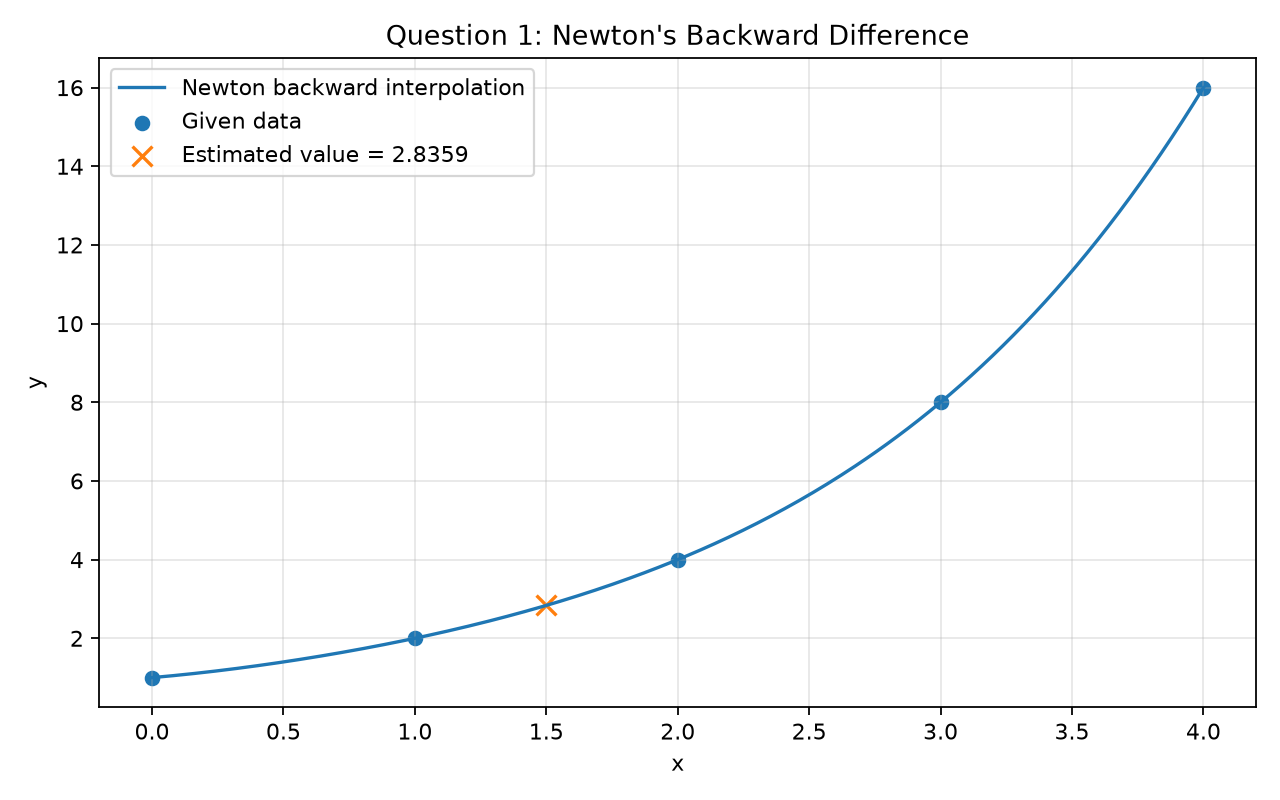
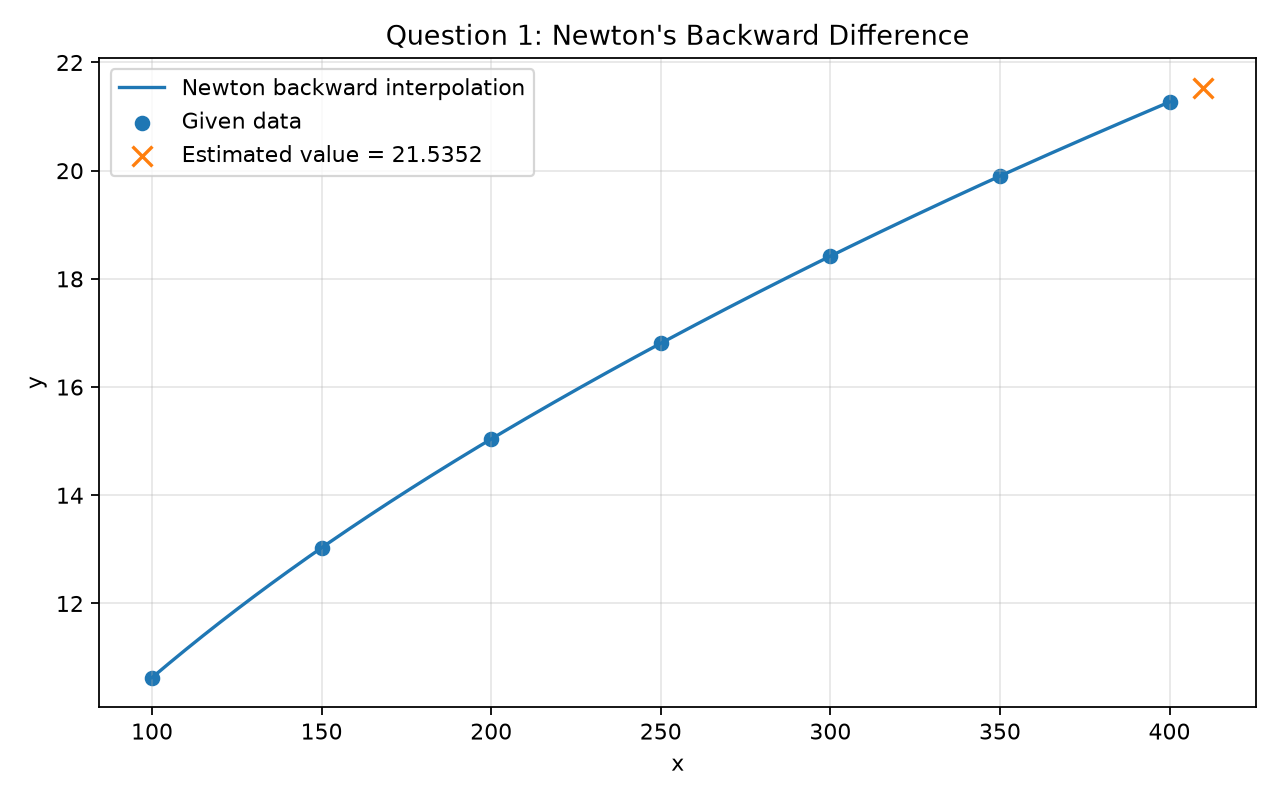
Change Q1
Changed the data of question1 to test the graphs produced in the images folder

diff --git a/question1.py b/question1.py
@@ -2,9 +2,9 @@ import numpy as np
 import matplotlib.pyplot as plt
 from newton_backward import newton_backward, print_difference_table
 
-x = np.array([0, 1, 2, 3, 4], dtype=float)
-y = np.array([1, 2, 4, 8, 16], dtype=float)
-target = 1.5
+x = np.array([100, 150, 200, 250, 300, 350, 400], dtype=float)
+y = np.array([10.63, 13.03, 15.04, 16.81, 18.42, 19.90, 21.27], dtype=float)
+target = 410
 
 result, table, h, p = newton_backward(x, y, target)
 
